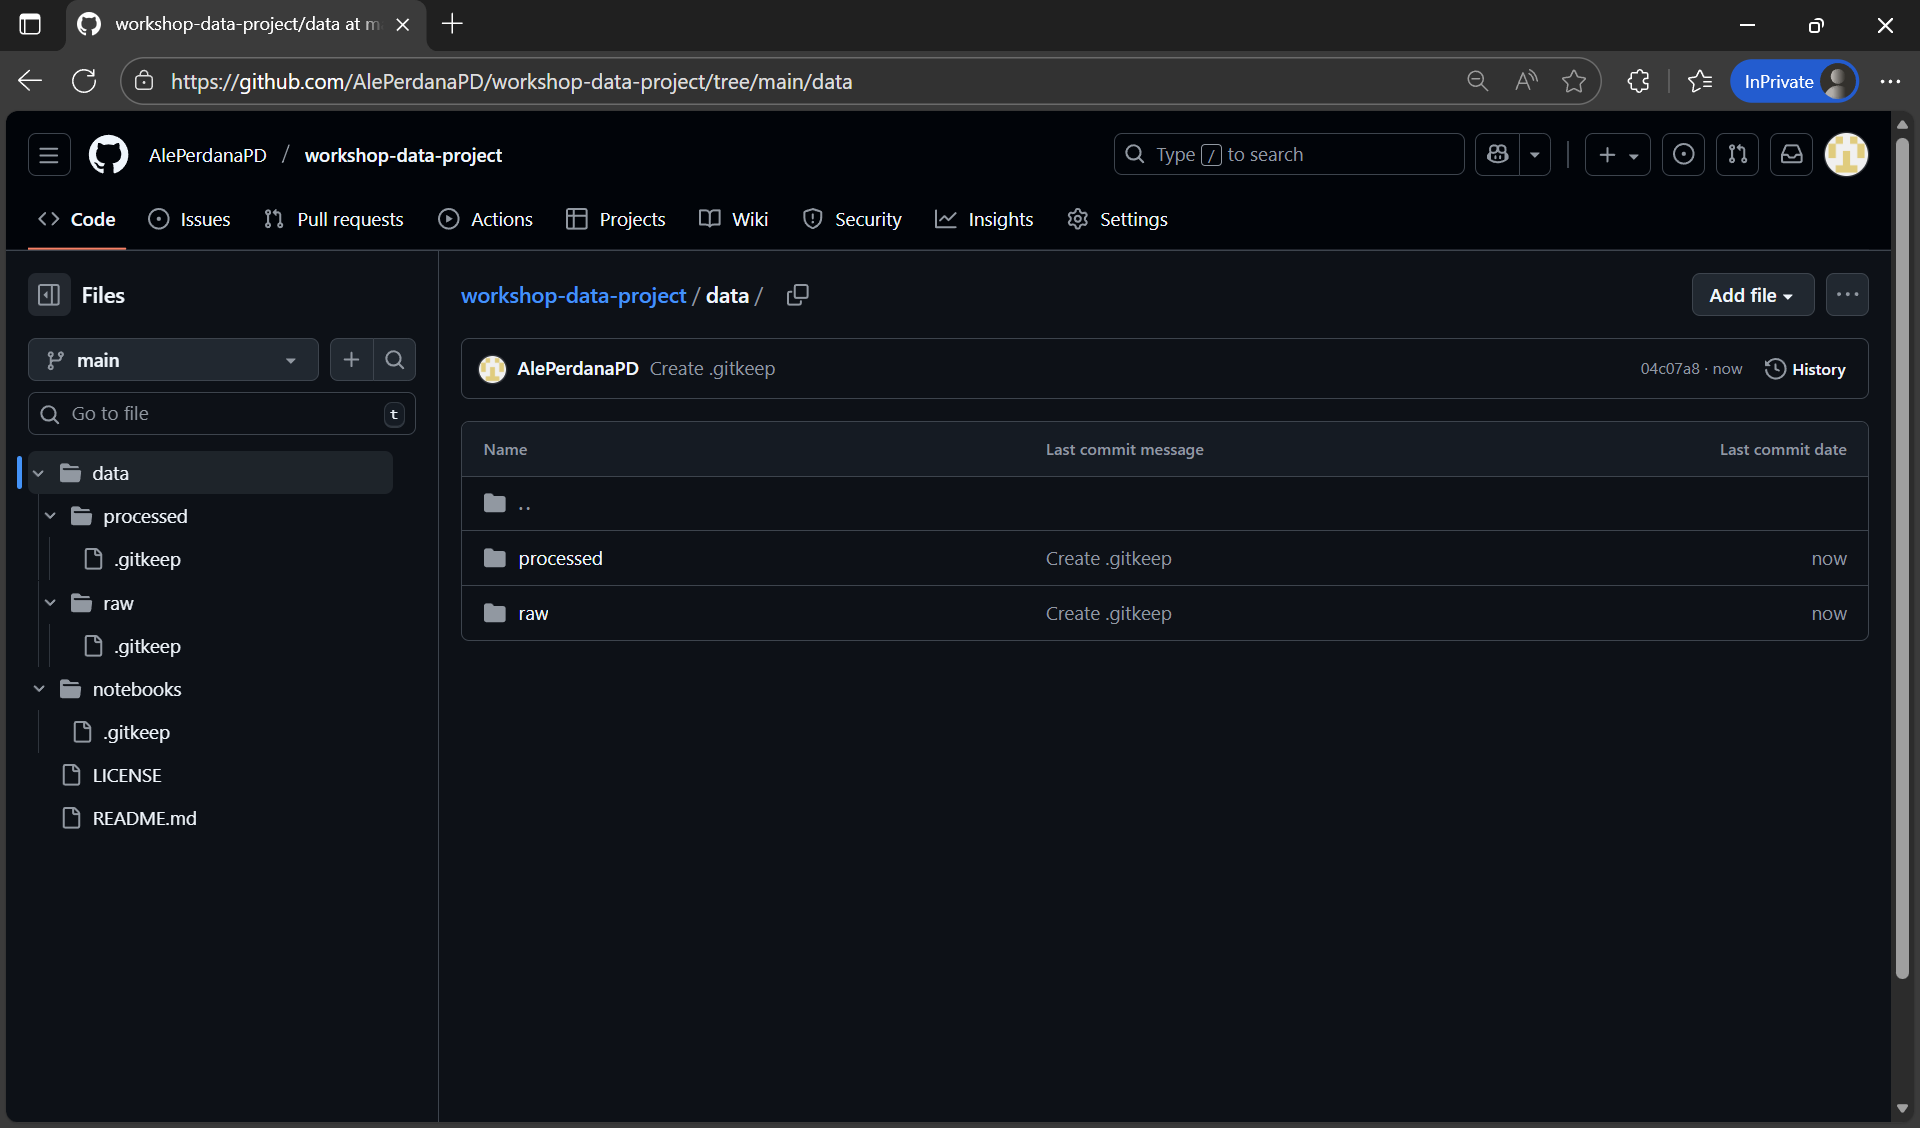
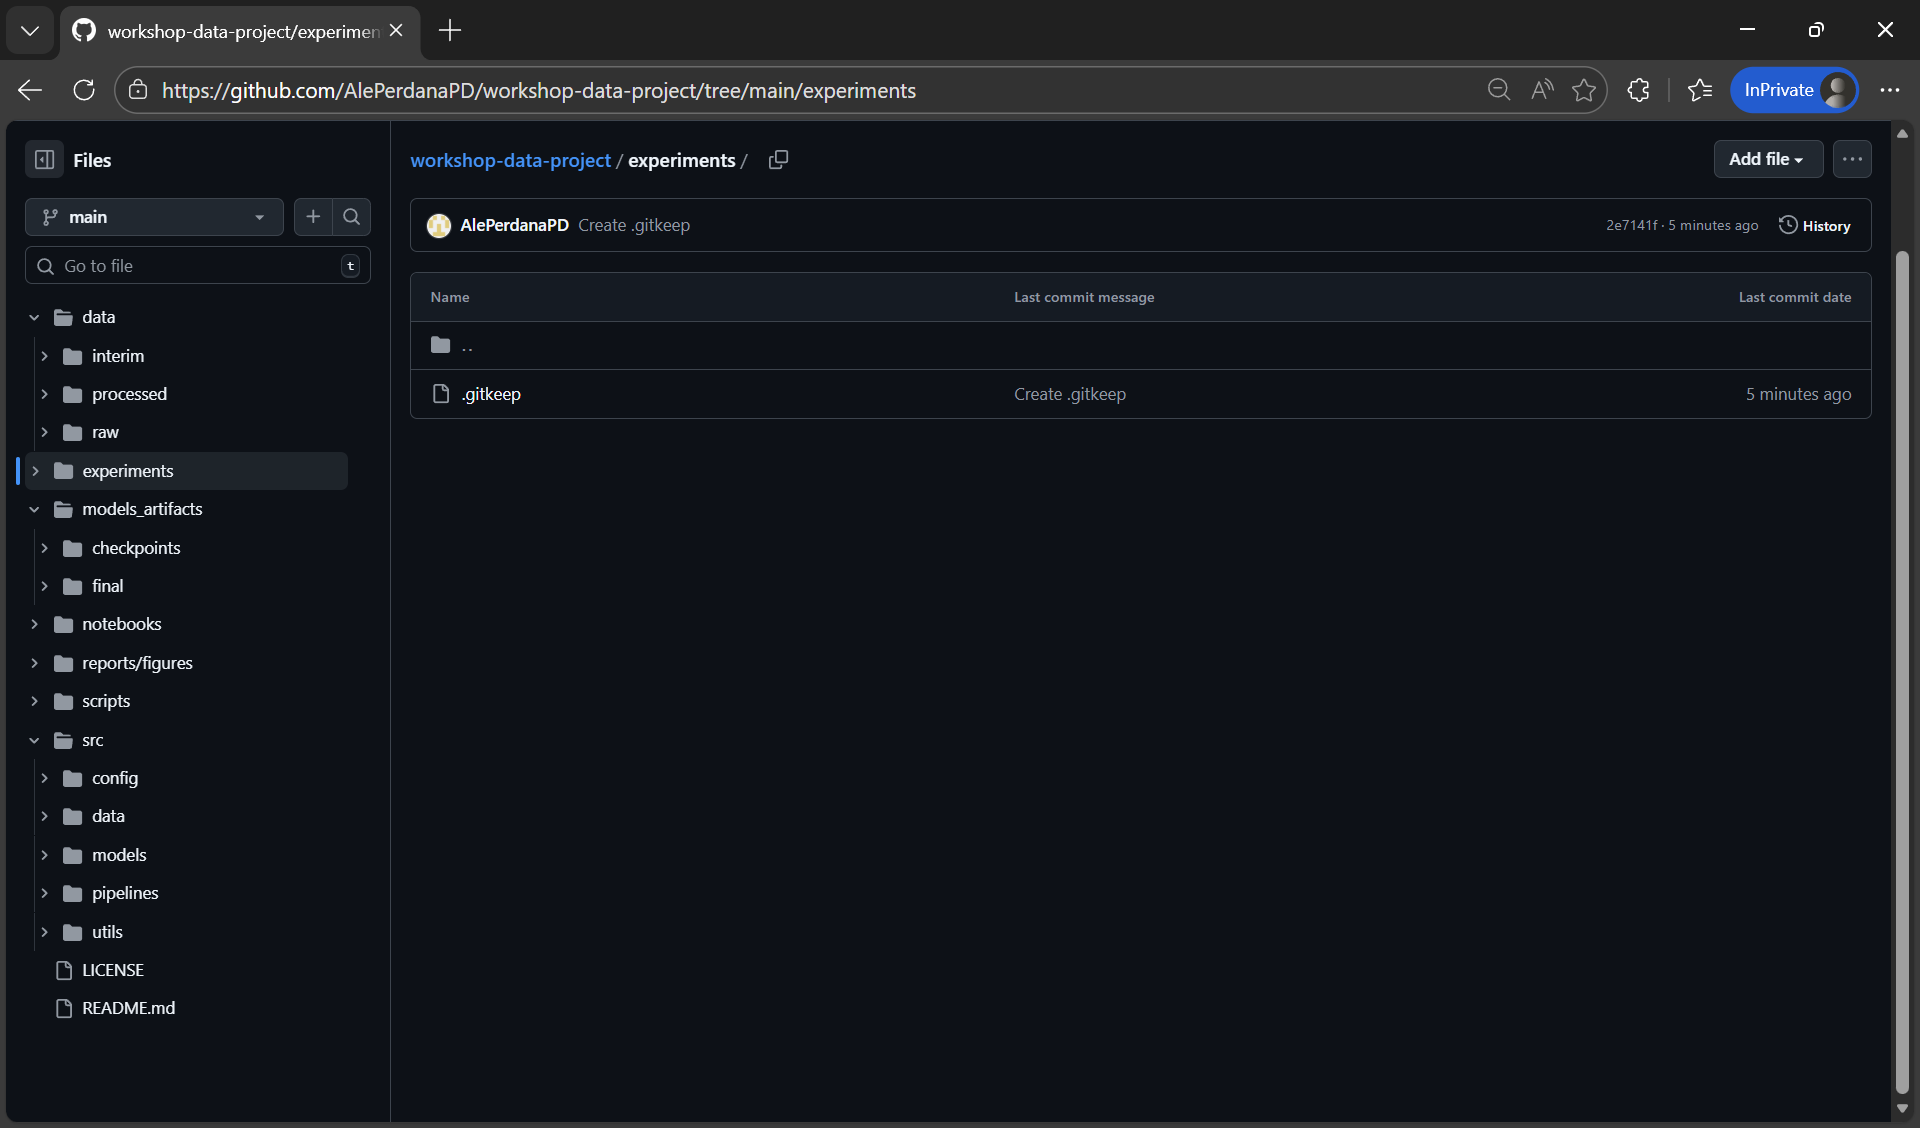
docs(day 1): added more detailed github file structure

diff --git a/day-1/1.2 Struktur Proyek Data.md b/day-1/1.2 Struktur Proyek Data.md
@@ -30,21 +30,70 @@ Berikut adalah struktur standar yang direkomendasikan untuk proyek data kolabora
 ```
 nama-proyek/
 │
-├── data/                     # Semua data (jangan commit data sensitif!)
-│   ├── raw/                  # Data asli, tidak boleh diubah
-│   ├── processed/            # Data hasil transformasi/cleaning
+├── README.md
+├── LICENSE
+├── .gitignore
+├── .env.example
+├── requirements.txt
 │
-├── notebooks/                # Jupyter/Kaggle notebook untuk eksplorasi
-│   ├── 01-iris-eda.ipynb
- 
-├── README.md                 # Gambaran umum proyek (wajib!)
+├── data/
+│   ├── raw/
+│   │   └── dataset_1/
+│   │       ├── dataset_1_metadata.csv
+│   │       ├── dataset_1_images_part_1/
+│   │       └── dataset_1_images_part_2/
+│   ├── interim/
+│   └── processed/
 │
-└── requirements.txt          # Daftar dependensi Python (jika ada)
+├── notebooks/
+│   ├── 01_eda.ipynb
+│   ├── 02_prepare_split.ipynb
+│   └── 03_train_baseline.ipynb
+│
+├── src/
+│   ├── config/
+│   │   ├── config.yaml
+│   │   └── logging.yaml
+│   │
+│   ├── data/
+│   │   ├── load.py
+│   │   ├── split.py
+│   │   └── prepare_dataset.py
+│   │
+│   ├── models/
+│   │   ├── train.py
+│   │   ├── evaluate.py
+│   │   └── predict.py
+│   │
+│   ├── pipelines/
+│   │   └── training_pipeline.py
+│   │
+│   └── utils/
+│       ├── seed.py
+│       └── metrics.py
+│
+├── experiments/
+│   └── exp_001_baseline/
+│       ├── config.yaml
+│       └── notes.md
+│
+├── models_artifacts/
+│   ├── checkpoints/
+│   └── final/
+│
+├── reports/
+│   ├── figures/
+│   └── results.md
+│
+└── scripts/
+   ├── train.sh
+   └── evaluate.sh
 ```
 
 > 📌 **Catatan**:  
 > - Jangan menyimpan data sensitif, password, atau file berukuran sangat besar di Git.  
-> - Untuk dataset besar, cukup simpan **link** ke Kaggle Dataset atau sumber eksternal.
+> - Untuk dataset besar, cukup simpan **link** ke Kaggle Dataset atau sumber eksternal.  
+> - Di workshop ini, kita akan memulai dari versi **sederhana** (hanya beberapa folder utama), lalu bertahap memahami struktur lengkap seperti di atas.
 
 ---
 
@@ -70,7 +119,7 @@ nama-proyek/
 ---
 
 ### Langkah 2: Tambahkan Struktur Dasar
-Gunakan GitHub UI untuk membuat folder dan file:
+Gunakan GitHub UI untuk mulai membangun struktur proyek sesuai **template struktur** di atas:
 
 1. Klik tombol **Add file → Create new file**
 ![Add Folders Structure](images/2_Struktur_Proyek_Data/2a.png)
@@ -78,15 +127,26 @@ Gunakan GitHub UI untuk membuat folder dan file:
 2. Buat folder `data/raw/` dengan file `.gitkeep`
    - Di bagian `Name your file...`, ketik: `data/raw/.gitkeep`
    - Ini akan otomatis membuat folder `data` dan subfolder `raw` dengan file `.gitkeep`
-   Lalu klik tombol **Commit Changes...** untuk membuat folder dan file tersebut.
+   - Lalu klik tombol **Commit Changes...** untuk membuat folder dan file tersebut.
 ![Add Folders Structure](images/2_Struktur_Proyek_Data/2b.png)
 
-3. Ulangi untuk:
+3. Ulangi pola yang sama untuk membuat folder penting lainnya:
+   - `data/interim/.gitkeep`
    - `data/processed/.gitkeep`
    - `notebooks/.gitkeep`
+   - `src/config/.gitkeep`
+   - `src/data/.gitkeep`
+   - `src/models/.gitkeep`
+   - `src/pipelines/.gitkeep`
+   - `src/utils/.gitkeep`
+   - `experiments/.gitkeep`
+   - `models_artifacts/checkpoints/.gitkeep`
+   - `models_artifacts/final/.gitkeep`
+   - `reports/figures/.gitkeep`
+   - `scripts/.gitkeep`
 ![Create Gitkeep Files](images/2_Struktur_Proyek_Data/2c.png)
 
-4. Buat file:
+1. Buat file:
    - `requirements.txt` (kosong dulu)
 ![Add Folders Structure](images/2_Struktur_Proyek_Data/2d.png)
 
@@ -109,9 +169,20 @@ Gunakan GitHub UI untuk membuat folder dan file:
 
 Proyek contoh untuk latihan kolaborasi data dengan GitHub & Kaggle.
 
-## Struktur
-- `data/`: Data mentah dan hasil olahan
-- `notebooks/`: Eksplorasi dan analisis awal
+## Struktur Proyek
+- `data/raw/`         : data mentah dari sumber eksternal (mis. dataset_1)
+- `data/interim/`     : data hasil langkah persiapan awal
+- `data/processed/`   : data siap pakai untuk training / evaluasi
+- `notebooks/`        : eksplorasi data & eksperimen awal
+- `src/config/`       : konfigurasi proyek (config, logging)
+- `src/data/`         : script loading, split, dan persiapan dataset
+- `src/models/`       : script training, evaluasi, dan prediksi model
+- `src/pipelines/`    : pipeline end-to-end untuk training
+- `src/utils/`        : fungsi pendukung (seed, metrics, dll.)
+- `experiments/`      : konfigurasi & catatan tiap eksperimen
+- `models_artifacts/` : checkpoint dan model final
+- `reports/`          : hasil analisis, gambar, dan ringkasan
+- `scripts/`          : script command-line (train, evaluate, dll.)
 ```
 
 4. Klik **Commit changes...** untuk menyimpan perubahan
@@ -132,7 +203,7 @@ Proyek contoh untuk latihan kolaborasi data dengan GitHub & Kaggle.
 ### 1. Git Branching
 
 - Gunakan branch utama sebagai produksi:
-   - `main` (atau `master`) untuk kode stabil.
+   - `main` untuk kode stabil.
 - Buat branch fitur dari `main`:
    - Contoh: `feature/setup-kaggle-notebook`, `feature/add-eda-iris`.
 - Untuk perbaikan bug gunakan prefix `fix/`:

diff --git a/day-1/1.5 Dokumentasi Dasar Markdown.md b/day-1/1.5 Dokumentasi Dasar Markdown.md
@@ -65,7 +65,7 @@ Ini adalah paragraf biasa.
 **Inline:**  
 Gunakan backtick: `` `print("hello")` ``
 
-**Blok kode (dengan syntax highlighting):**
+**Blok kode dengan syntax highlighting:**
 ````markdown
 ```python
 import pandas as pd
@@ -73,7 +73,7 @@ df = pd.read_csv("data.csv")
 ```
 ````
 
-### 6. Tabel (opsional, tapi berguna!)
+### 6. Tabel
 ```markdown
 | Fitur         | Tipe Data |
 |---------------|-----------|
